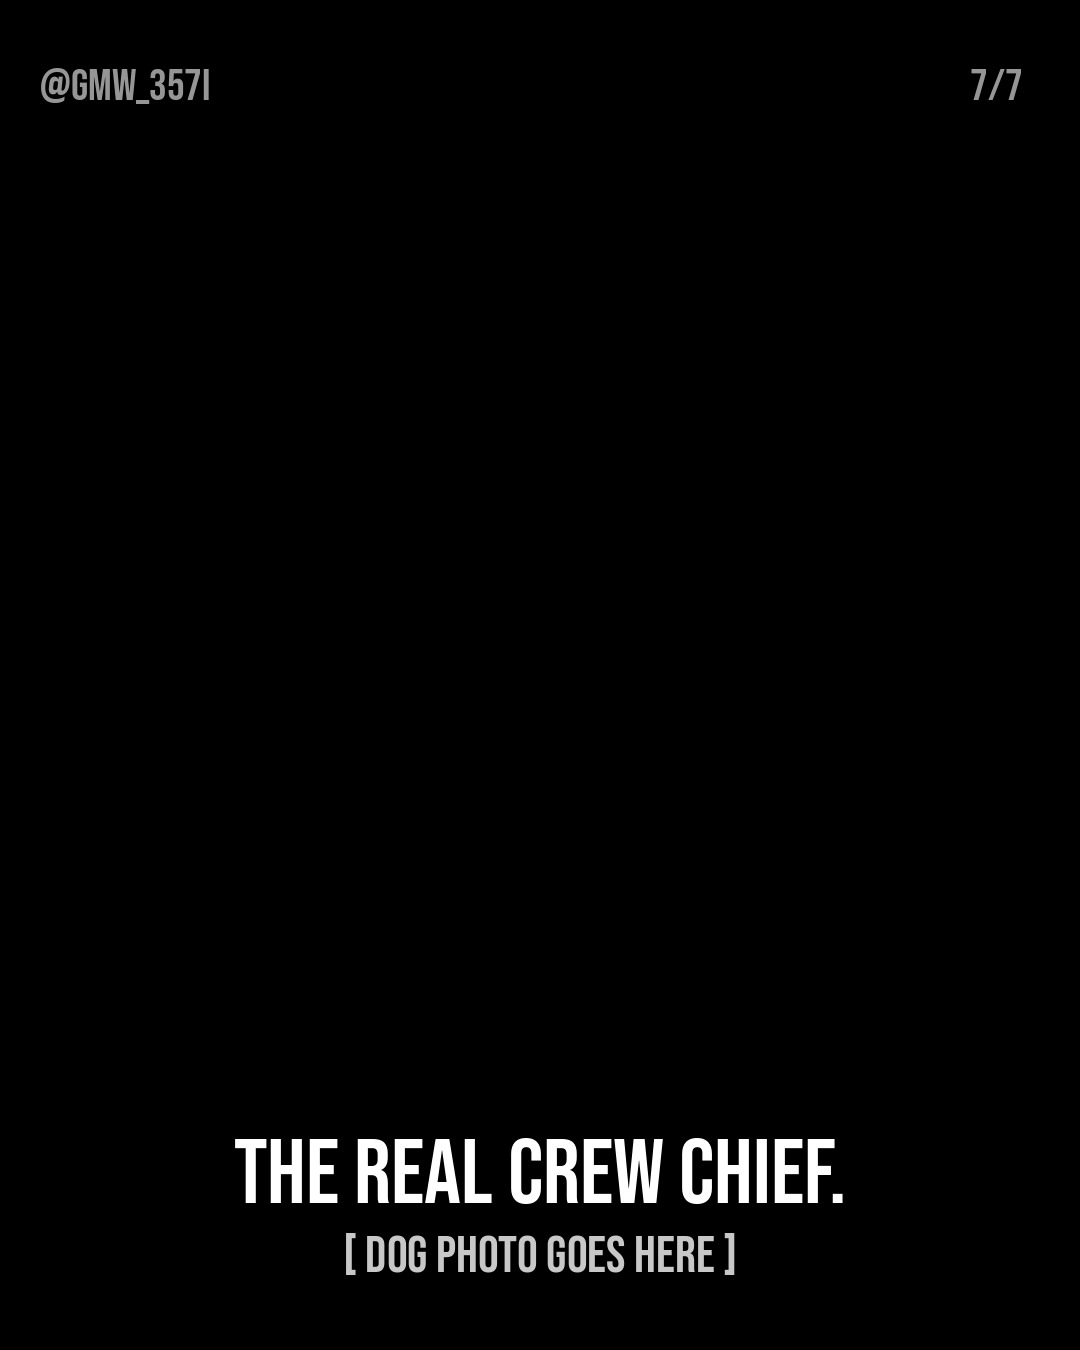
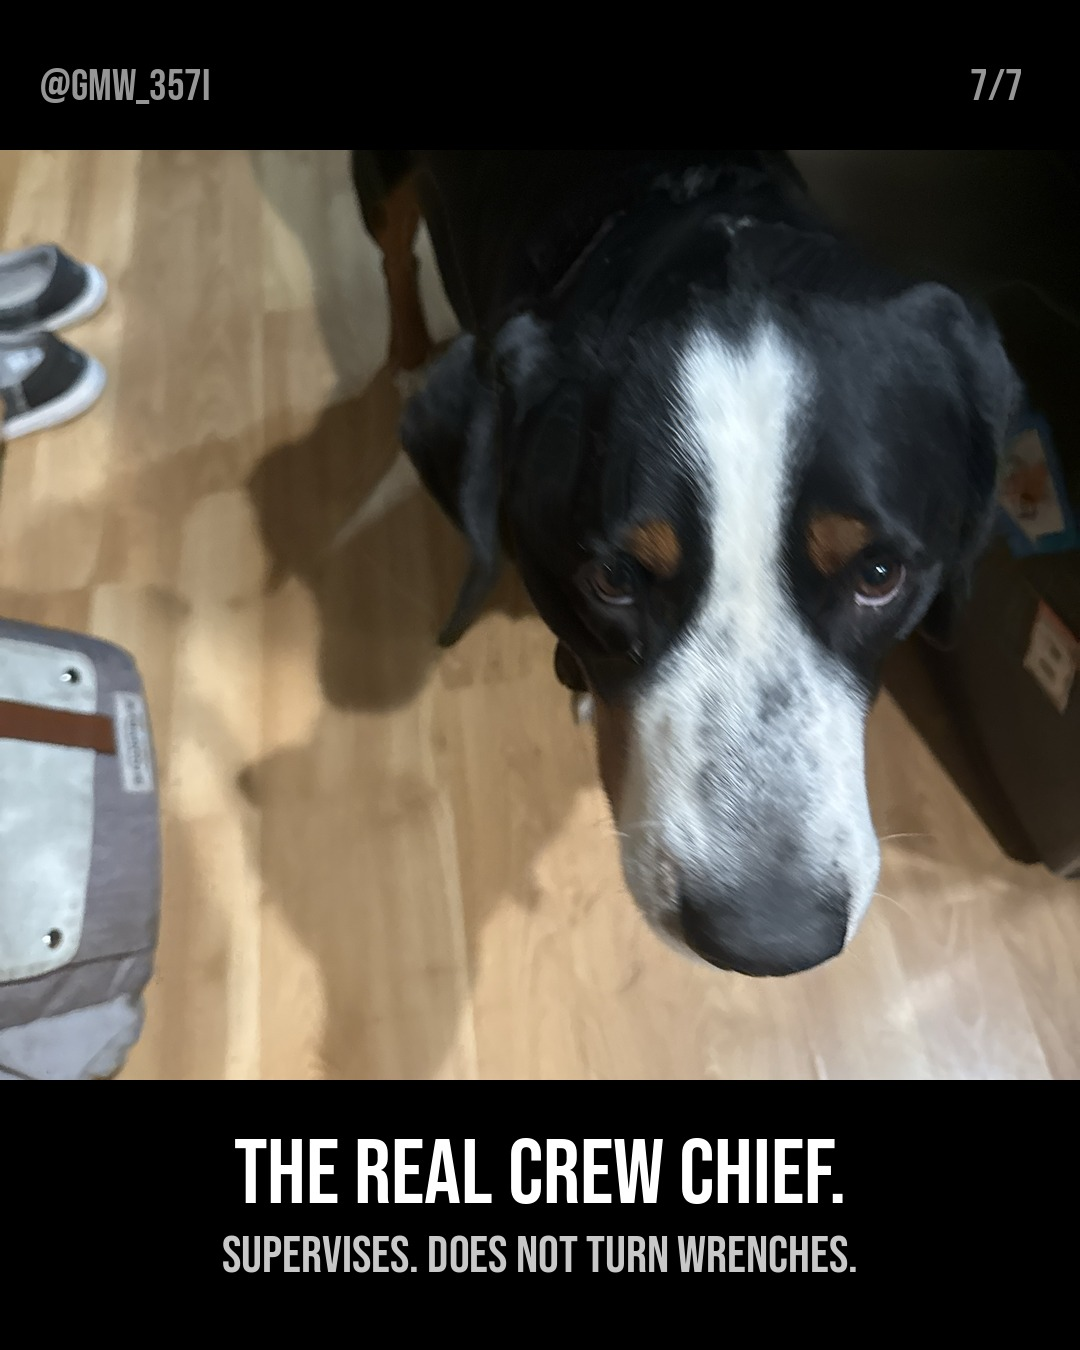
Add dog photo to @GMW_357i carousel slide 7
Crop the portrait photo to the dog's face for the landscape photo band
and honor EXIF orientation.

Claude-Session: https://claude.ai/code/session_01NSJRZH3dS4Z1j3nfJoW5hV

diff --git a/marketing/social-media/gmw_357i/2026-09-origin-carousel/build_slides.py b/marketing/social-media/gmw_357i/2026-09-origin-carousel/build_slides.py
@@ -5,7 +5,7 @@ Source photos are the owner's originals; outputs land next to this script.
 """
 import os
 import sys
-from PIL import Image, ImageDraw, ImageFont
+from PIL import Image, ImageDraw, ImageFont, ImageOps
 
 W, H = 1080, 1350
 PHOTO_TOP, PHOTO_BOTTOM = 150, 1080  # photo band, text lives below it
@@ -93,6 +93,13 @@ slide(5, load("ba12c471-image.jpg"),
       "SO I WENT AMERICAN.", "5.7L LS1. PARTS IN EVERY TOWN.", anchor=1.0)
 slide(6, load("6a8e4020-image.jpg", (0, 115, 1206, 880)),
       "BMW OUTSIDE. GM INSIDE.", "THAT'S THE GMW.")
-slide(7, Image.open(dog).convert("RGB") if dog else None,
+def face_crop(im, cy=0.56):
+    """Portrait photo into the landscape band, centered on the face (cy of height)."""
+    h = round(im.width * (PHOTO_BOTTOM - PHOTO_TOP) / W)
+    t = min(max(round(im.height * cy - h / 2), 0), im.height - h)
+    return im.crop((0, t, im.width, t + h))
+
+
+slide(7, face_crop(ImageOps.exif_transpose(Image.open(dog)).convert("RGB")) if dog else None,
       "THE REAL CREW CHIEF.", "SUPERVISES. DOES NOT TURN WRENCHES." if dog else "[ DOG PHOTO GOES HERE ]")
 print("done")

diff --git a/marketing/social-media/gmw_357i/2026-09-origin-carousel/CAPTION.md b/marketing/social-media/gmw_357i/2026-09-origin-carousel/CAPTION.md
@@ -1,8 +1,7 @@
 # @GMW_357i origin carousel
 
 Post as a 7-slide carousel, slides in order `slide_1.jpg` to `slide_7.jpg` (1080x1350, 4:5).
-Slide 7 is a placeholder until the dog photo is added:
-`python3 build_slides.py <photo_dir> <BebasNeue-Regular.ttf> <dog_photo.jpg>`
+Rebuild: `python3 build_slides.py <photo_dir> <BebasNeue-Regular.ttf> <dog_photo.jpg>`
 
 ## Caption
 
